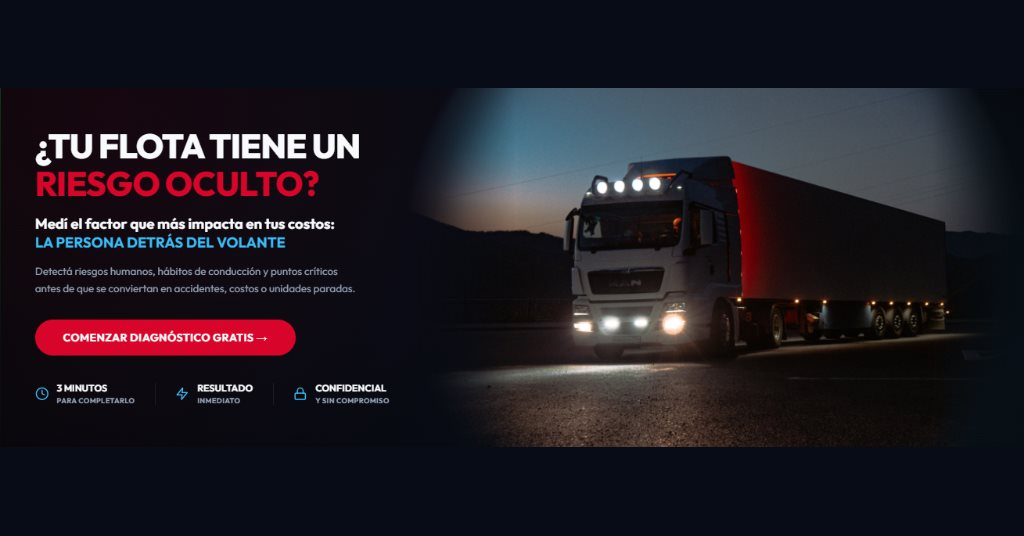
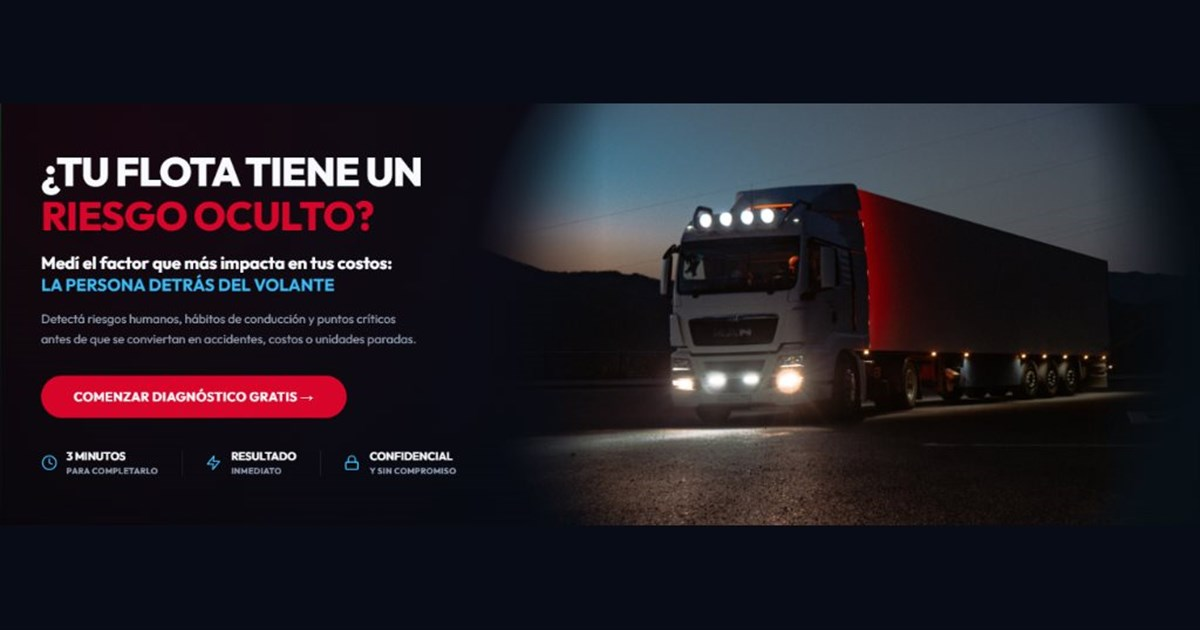
Add files via upload

diff --git a/index.html b/index.html
@@ -21,8 +21,8 @@
 
     <!-- Configuración general de la vista previa -->
     <meta property="og:image:type" content="image/jpeg">
-    <meta property="og:image:width" content="1024">
-    <meta property="og:image:height" content="536">
+    <meta property="og:image:width" content="1200">
+    <meta property="og:image:height" content="630">
     <meta property="og:image:alt" content="Vista previa de la Calculadora de Riesgo Operativo">
 
     <!-- Twitter Card (para redes sociales que lo requieran como X/Twitter) -->
